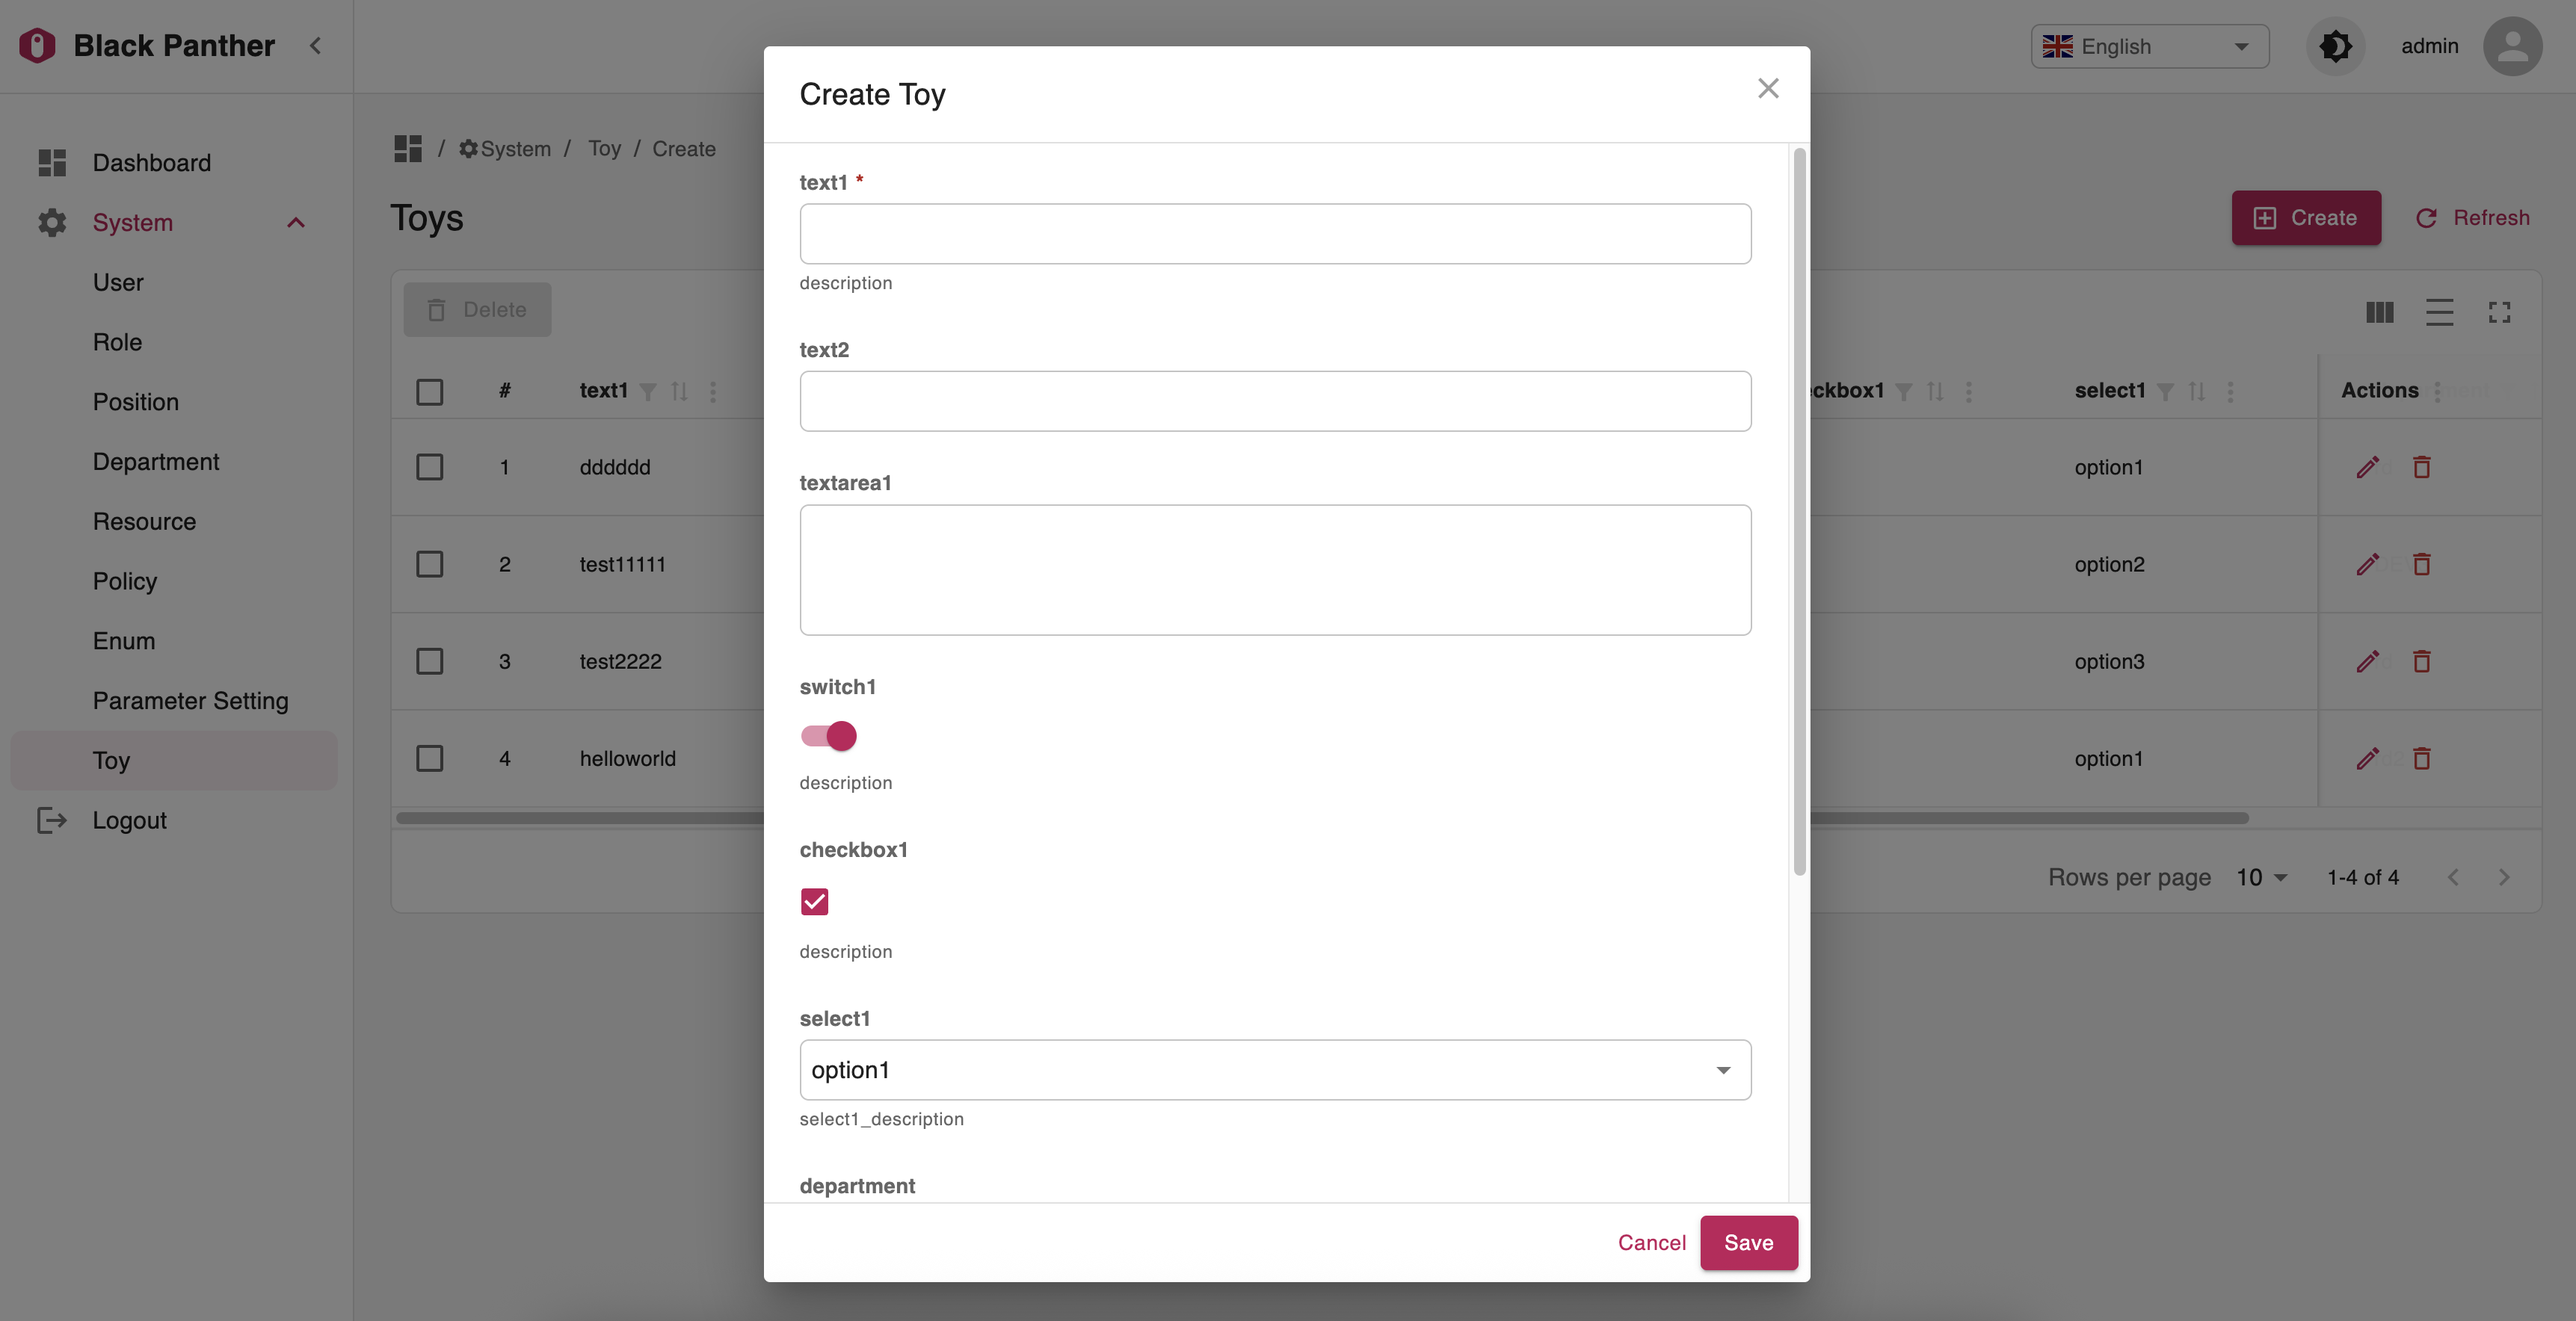
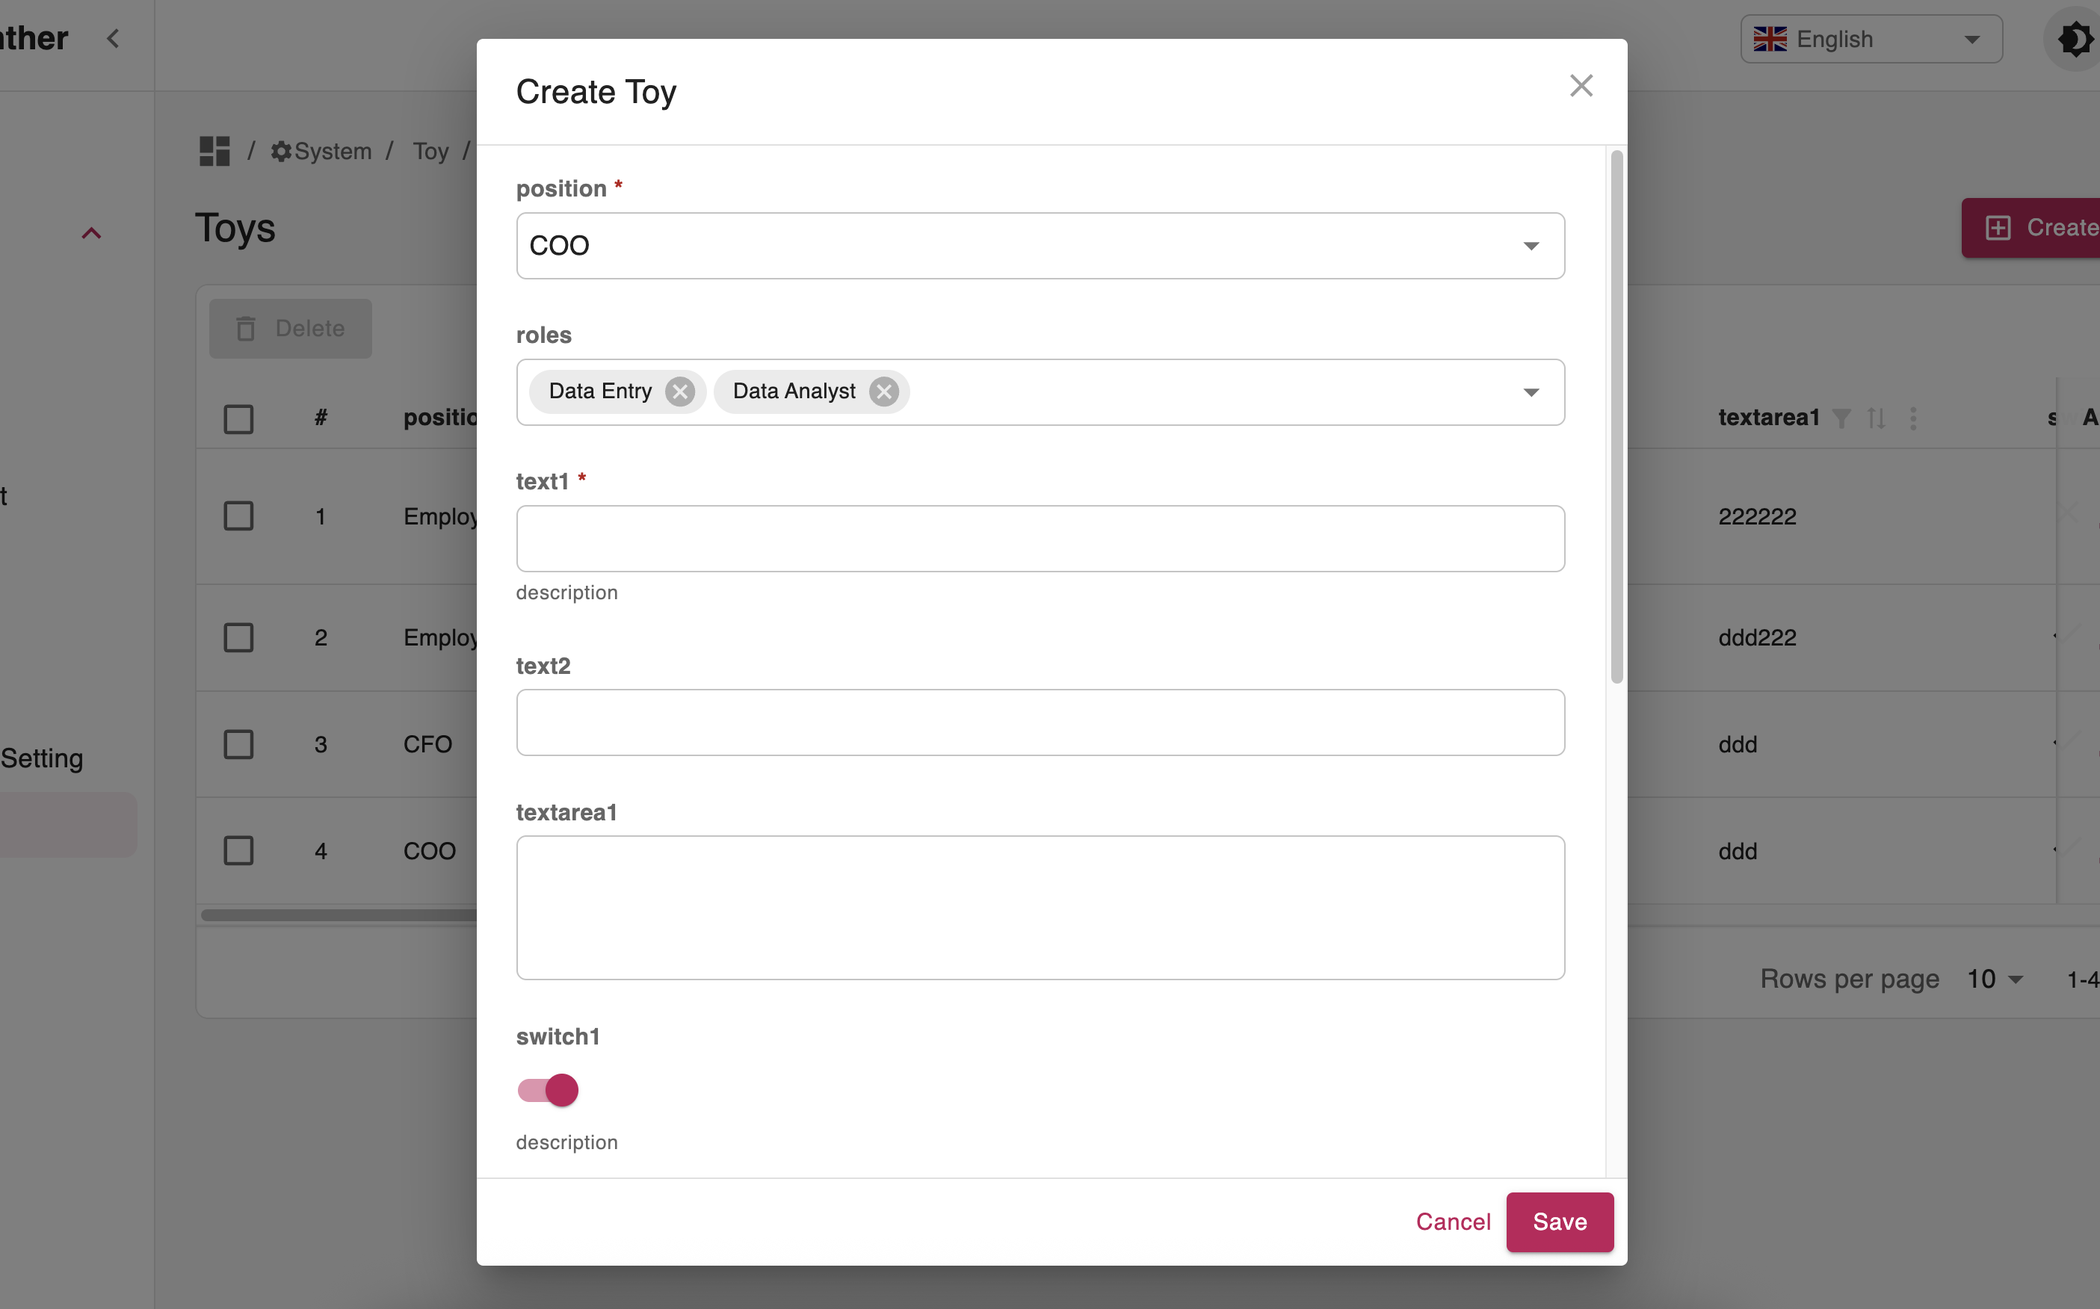
Update docs

diff --git a/README.md b/README.md
@@ -63,37 +63,37 @@ I like [Refine](https://refine.dev/) very much, I think it's a good solution for
 ![Policy Save](resources/policy-save.png)
 
 ### User
-#### List
+1. List
 ![User List](resources/user-list.png)
-#### Create
+2. Create
 ![User Create](resources/user-create.png)
 
 ### Role
-#### List
+1. List
 ![Role List](resources/role-list.png)
-#### Create
+2. Create
 ![Role Create](resources/role-create.png)
 
 ### Resource
-#### List
+1. List
 ![Resource List](resources/resource-list.png)
 
-#### Create
+2. Create
 ![Resource Create](resources/resource-create.png)
 
 
 ### Department
-#### List
+1. List
 ![Department List](resources/department-list.png)
 
-#### Create
+2. Create
 ![Department Create](resources/department-create.png)
 
 ### Enum
-#### List
+1. List
 ![Enum List](resources/enum-list.png)
 
-#### Edit
+2. Edit
 ![Enum Edit](resources/enum-edit.png)
 
 #### Sidebar mini mode
@@ -105,21 +105,45 @@ I like [Refine](https://refine.dev/) very much, I think it's a good solution for
 #### Dark mode
 ![Dark mode](resources/dark-mode.png)
 
-### Dynamic module support
+### Dynamic module
 
-**Zero code on the front end**
+**Generate the front end through SQLModel model configuration**
+
+>Zero code on the front end
 
 Just define some special fields to describe the data in your backend model, and the frontend will be automatically generated.
 
+This method is more suitable when you have a large number of data tables to maintain and there is not much complex business logic.
+
 ```python
+
 from typing import Optional, List
 from datetime import datetime
 from sqlmodel import SQLModel, Relationship, BIGINT
 from app.common.model import BaseMixin
 from app.common.model.field import Field
+from app.common.model.helper import partial_model
 from app.enums import IntNameEnum
 from app.modules.department.models import Department, DepartmentPublic
+from app.modules.position.models import Position, PositionPublic
 from .detail.models import ToyDetail, ToyDetailCreate, ToyDetailPublic
+from app.modules.role.models import Role, RolePublicWithoutActions
+
+
+class ToyRoleLink(SQLModel, table=True):
+    __tablename__ = "toy_role_link"
+    id: int = Field(
+        sa_type=BIGINT,
+        primary_key=True,
+        index=True,
+        nullable=False,
+    )
+    toy_id: Optional[int] = Field(
+        default=None, sa_type=BIGINT, foreign_key="toy.id"
+    )
+    role_id: Optional[int] = Field(
+        default=None, sa_type=BIGINT, foreign_key="role.id"
+    )
 
 
 class Select1Enum(IntNameEnum):
@@ -143,17 +167,29 @@ class ToyBase(SQLModel):
     department_id: Optional[int] = Field(
         default=None,
         title="department",
-        value_type="treeSelect",
+        value_type="referenceNode",
         sa_type=BIGINT,
         reference="department",
         hide_in_list=True,
         foreign_key="department.id",
         description="department_description"
     )
+    position_id: int = Field(
+        foreign_key="position.id",
+        title="position",
+        value_type="reference",
+        sa_type=BIGINT,
+        reference="position",
+        hide_in_list=True,
+        priority=10
+    )
 
 
 class Toy(ToyBase, BaseMixin, table=True):
     department: Optional[Department] = Relationship(
+        sa_relationship_kwargs={"lazy": "noload"},
+    )
+    position: Optional[Position] = Relationship(
         sa_relationship_kwargs={"lazy": "noload"},
     )
     details: List[ToyDetail] = Relationship(
@@ -162,33 +198,177 @@ class Toy(ToyBase, BaseMixin, table=True):
             "cascade": "all, delete-orphan",
             "lazy": "noload"
         })
+    roles: List["Role"] = Relationship(
+        sa_relationship_kwargs={"lazy": "noload"},
+        link_model=ToyRoleLink
+    )
 
 
 class ToyPublic(ToyBase):
     id: Optional[int]
     department: Optional[DepartmentPublic] = Field(
         title="department",
-        value_type="treeSelect",
+        value_type="referenceNode",
         reference="department",
         search_key="department_id"
     )
+    position: Optional[PositionPublic] = Field(
+        title="position",
+        value_type="reference",
+        reference="position",
+        search_key="position_id",
+        priority=10
+    )
     created_at: Optional[datetime] = None
     details: List[ToyDetailPublic] = None
+    roles: List[RolePublicWithoutActions] = Field(
+        title="roles",
+        value_type="referenceArray",
+        reference="role",
+        priority=9
+    )
 
 
 class ToyCreate(ToyBase):
+    roles: Optional[List[int]] = Field(
+        default=None,
+        title="roles",
+        value_type="referenceArray",
+        reference="role",
+        priority=9
+    )
     details: List[ToyDetailCreate] = Field(
         title="details", value_type="listTable", description="detail description")
 
 
+@partial_model
 class ToyUpdate(ToyBase):
+    roles: Optional[List[int]] = Field(
+        default=None,
+        title="roles",
+        value_type="referenceArray",
+        reference="role",
+        priority=9
+    )
     details: List[ToyDetailCreate] = None
+
 
 ```
 The front end automatically generates lists and forms based on the json schema returned by the back end
 
 ![Toy List](resources/toy-list.png)
 ![Toy Create](resources/toy-create.png)
+
+### Support for relationships
+
+#### 1. One To One
+
+Create/Edit Mode
+
+```python
+
+department_id: Optional[int] = Field(
+    default=None,
+    title="department",
+    value_type="referenceNode",
+    sa_type=BIGINT,
+    reference="department",
+    hide_in_list=True,
+    foreign_key="department.id",
+    description="department_description"
+)
+position_id: int = Field(
+    foreign_key="position.id",
+    title="position",
+    value_type="reference",
+    sa_type=BIGINT,
+    reference="position",
+    hide_in_list=True,
+    priority=10
+)
+
+```
+Add value_type and reference attributes to the normal SQLModel foreign key configuration
+
+Different value_type will present different form rendering items
+
+**reference**:autocomplete.
+**referenceNode**:tree select.
+
+Also in list mode you only need to configure
+
+```python
+department: Optional[DepartmentPublic] = Field(
+    title="department",
+    value_type="referenceNode",
+    reference="department",
+    search_key="department_id"
+)
+position: Optional[PositionPublic] = Field(
+    title="position",
+    value_type="reference",
+    reference="position",
+    search_key="position_id",
+    priority=10
+)
+```
+
+
+#### 2. One To Many
+
+```python
+
+class ToyCreate(ToyBase):
+    details: List[ToyDetailCreate] = Field(title="details", value_type="listTable", description="detail description")
+```
+Compared with the normal **SQLModel** relationship configuration
+You just should to add value_type as listTable
+The front end will automatically generate one-to-many table data maintenance
+
+![One To Many](resources/one-to-many.png)
+
+
+#### 3. Many To Many
+
+```python
+class ToyRoleLink(SQLModel, table=True):
+    __tablename__ = "toy_role_link"
+    id: int = Field(
+        sa_type=BIGINT,
+        primary_key=True,
+        index=True,
+        nullable=False,
+    )
+    toy_id: Optional[int] = Field(
+        default=None, sa_type=BIGINT, foreign_key="toy.id"
+    )
+    role_id: Optional[int] = Field(
+        default=None, sa_type=BIGINT, foreign_key="role.id"
+    )
+
+class Toy(ToyBase, BaseMixin, table=True):
+    roles: List["Role"] = Relationship(
+        sa_relationship_kwargs={"lazy": "noload"},
+        link_model=ToyRoleLink
+    )
+
+class ToyCreate(ToyBase):
+    roles: Optional[List[int]] = Field(
+        default=None,
+        title="roles",
+        value_type="referenceArray",
+        reference="role",
+        priority=9
+    )
+
+```
+
+Compared with the normal **SQLModel** relationship configuration
+You just should to add value_type as referenceArray
+
+The front end will automatically generate a multi-select autocomplate control
+
+![Many To Many](resources/many-to-many.png)
 
 
 ## How To Use It
@@ -203,7 +383,7 @@ Backend docs: [backend/README.md](./backend/README.md).
 
 Frontend docs: [frontend/README.md](./frontend/README.md).
 
-## Why did you use Black Panther as the name of the project?
+## Why did you use BlackPanther as the name of the project?
 <p align="center">
 <img src="resources/Black Panther.png" alt="BlackPanther is a Full stack web application scaffold,Using FastAPI,BetterCRUD,Refine and more." width="200" height="auto">
 </p>
